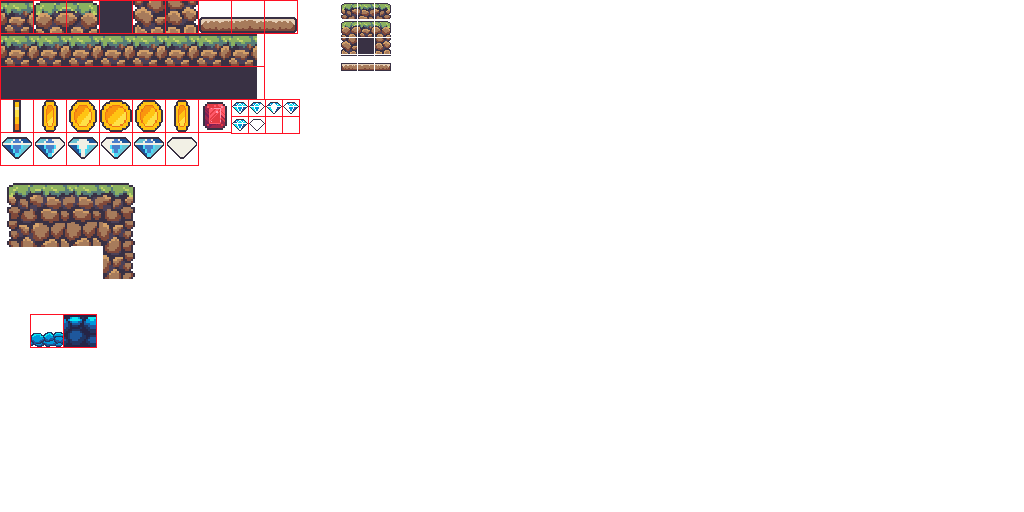
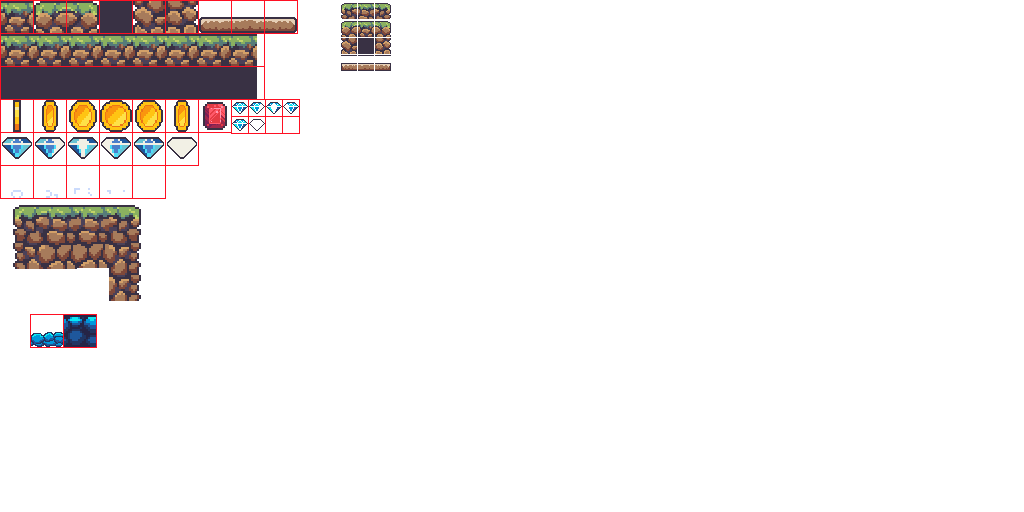
fixed more resolution problems, added more to graphics

Changed region(s): [[0.0, 0.3438, 0.1562, 0.5938]]

diff --git a/src/objects/Player.java b/src/objects/Player.java
@@ -40,7 +40,7 @@ public class Player extends GameObject {
 		this.cam = cam;
 		this.handler = handler;
 		this.playerData = playerData;
-		
+
 		initialX = x;
 		initialY = y;
 		velX = GameMain.WIDTH / 256;
@@ -50,7 +50,7 @@ public class Player extends GameObject {
 		runningAnim = new Animation(4, tex.player[0], tex.player[1], tex.player[2], tex.player[3], tex.player[4], tex.player[5], tex.player[6], tex.player[7]);
 		gun1RunningAnim = new Animation(4, tex.gun1[0], tex.gun1[1], tex.gun1[2], tex.gun1[3], tex.gun1[4], tex.gun1[5], tex.gun1[6], tex.gun1[7]);
 	}
-	
+
 	@Override
 	public void tick() {
 		//shooting
@@ -73,6 +73,7 @@ public class Player extends GameObject {
 		if (jumpTimer < jumpCooldown)
 			jumpTimer++;
 		else if (KeyInput.pressedSpace && !jumping) {
+			handler.addObject(new DustEffect(x + width / 2, y + height / 2, cam, handler, ObjectId.DustEffect), Handler.TOP_LAYER);
 			jumpTimer = 0;
 			jumping = true;
 			velY = jumpVelY;
@@ -151,13 +152,16 @@ public class Player extends GameObject {
 
 	@Override
 	public void render(Graphics g) {
-		runningAnim.drawAnimation(g, x, y, width, height);
-		gun1RunningAnim.drawAnimation(g, x - width / 2, y, width * 2, height);
-		//g.drawImage(tex.player[0], x, y, width, height, null);
-		//		g.setColor(Color.orange);
-		//		g.fillRect(x, y, width, height);
+		if (jumping) {
+			g.drawImage(tex.player[8], x, y, width, height, null);
+			g.drawImage(tex.gun1[2], x - width / 2, y, width * 2, height, null);
+		}
+		else {
+			runningAnim.drawAnimation(g, x, y, width, height);
+			gun1RunningAnim.drawAnimation(g, x - width / 2, y, width * 2, height);
+		}
 
-		//for debugging
+		//debug
 		/*
 		Graphics2D g2d = (Graphics2D) g;
 		g2d.setColor(Color.red);

diff --git a/src/objects/DustEffect.java b/src/objects/DustEffect.java
@@ -1,0 +1,51 @@
+package objects;
+
+import java.awt.Graphics;
+import java.awt.Rectangle;
+
+import framework.GameObject;
+import framework.ObjectId;
+import framework.Texture;
+import window.Animation;
+import window.Camera;
+import window.GameMain;
+import window.Handler;
+
+public class DustEffect extends GameObject {
+
+	private Camera cam;
+	private Handler handler;
+	private Texture tex = GameMain.getTexture();
+	
+	private Animation dustAnim;
+	
+	public DustEffect(int x, int y, Camera cam, Handler handler, ObjectId id) {
+		super(x, y, id);
+		this.cam = cam;
+		this.handler = handler;
+		
+		width = height = (int) Math.ceil((double) (GameMain.WIDTH) / GameMain.TILE_COUNT_X);
+		dustAnim = new Animation(4, tex.dustEffect[0], tex.dustEffect[1], tex.dustEffect[2], tex.dustEffect[3], tex.dustEffect[4]);
+	}
+
+	@Override
+	public void tick() {
+		if (x < (int) -cam.getX() - width)
+			handler.removeObject(this);
+		if (dustAnim.getPlayedOnce())
+			handler.removeObject(this); 
+		
+		dustAnim.runAnimation();
+	}
+
+	@Override
+	public void render(Graphics g) {
+		dustAnim.drawAnimation(g, x, y, width, height);
+	}
+
+	@Override
+	public Rectangle getBounds() {
+		return null;
+	}
+
+}

diff --git a/src/framework/Texture.java b/src/framework/Texture.java
@@ -15,9 +15,11 @@ public class Texture {
 	public BufferedImage[] coin = new BufferedImage[6];
 	public BufferedImage[] gem = new BufferedImage[6];
 	
-	public BufferedImage[] player = new BufferedImage[8];
+	public BufferedImage[] player = new BufferedImage[10];
 	public BufferedImage[] gun1 = new BufferedImage[8];
 	public BufferedImage[] basicBullet = new BufferedImage[4];
+	
+	public BufferedImage[] dustEffect = new BufferedImage[5];
  	
 	public Texture() {
 		BufferedImageLoader loader = new BufferedImageLoader();
@@ -61,5 +63,8 @@ public class Texture {
 			gun1[i] = weapon_sheet.getSubimage(1 + i * 81, 1, 80, 64);
 		for (int i = 4; i < 8; i++)
 			gun1[i] = weapon_sheet.getSubimage(1 + (i - 4) * 81, 66, 80, 64);
+		
+		for (int i = 0; i < dustEffect.length; i++)
+			dustEffect[i] = block_sheet.getSubimage(1 + i * 33, 166, 32, 32);
 	}
 }

diff --git a/src/window/GameMain.java b/src/window/GameMain.java
@@ -67,7 +67,7 @@ public class GameMain extends Canvas implements Runnable {
 		
 		int tileWidth = WIDTH / TILE_COUNT_X;
 		int tileHeight = HEIGHT / TILE_COUNT_Y;
-		Player player = new Player(TILE_COUNT_X * 5, tileHeight * 7, 5 * tileWidth / 4, tileHeight * 2, playerData, cam, handler, ObjectId.Player);
+		Player player = new Player(TILE_COUNT_X * 5, tileHeight * 7, (int) Math.ceil(5 * tileWidth / 4.0), tileHeight * 2, playerData, cam, handler, ObjectId.Player);
 		handler.setPlayer(player);
 		handler.addObject(player, Handler.MIDDLE_LAYER);
 		

diff --git a/src/objects/GroundTile.java b/src/objects/GroundTile.java
@@ -42,11 +42,11 @@ public class GroundTile extends GameObject {
 		case Wall:
 		case LeftWall:
 		case RightWall:
-			width = height = GameMain.WIDTH / GameMain.TILE_COUNT_X;
+			width = height = (int) Math.ceil((double) (GameMain.WIDTH) / GameMain.TILE_COUNT_X);
 			break;
 		case GrassX8:
 		case WallX8:
-			height = GameMain.WIDTH / GameMain.TILE_COUNT_X;
+			height = (int) Math.ceil((double) (GameMain.WIDTH) / GameMain.TILE_COUNT_X);
 			width = 8 * height;
 			break;
 		}

diff --git a/src/objects/JumpThroughTile.java b/src/objects/JumpThroughTile.java
@@ -29,7 +29,7 @@ public class JumpThroughTile extends GameObject {
 		this.handler = handler;
 		this.type = type;
 		
-		width = GameMain.WIDTH / GameMain.TILE_COUNT_X;
+		width = (int) Math.ceil((double) (GameMain.WIDTH) / GameMain.TILE_COUNT_X);
 		height = width / 2;
 	}
 

diff --git a/src/framework/ObjectId.java b/src/framework/ObjectId.java
@@ -6,5 +6,6 @@ public enum ObjectId {
 	BasicBullet(),
 	Coin(),
 	JumpThroughTile(),
-	Gem();
+	Gem(),
+	DustEffect();
 }
